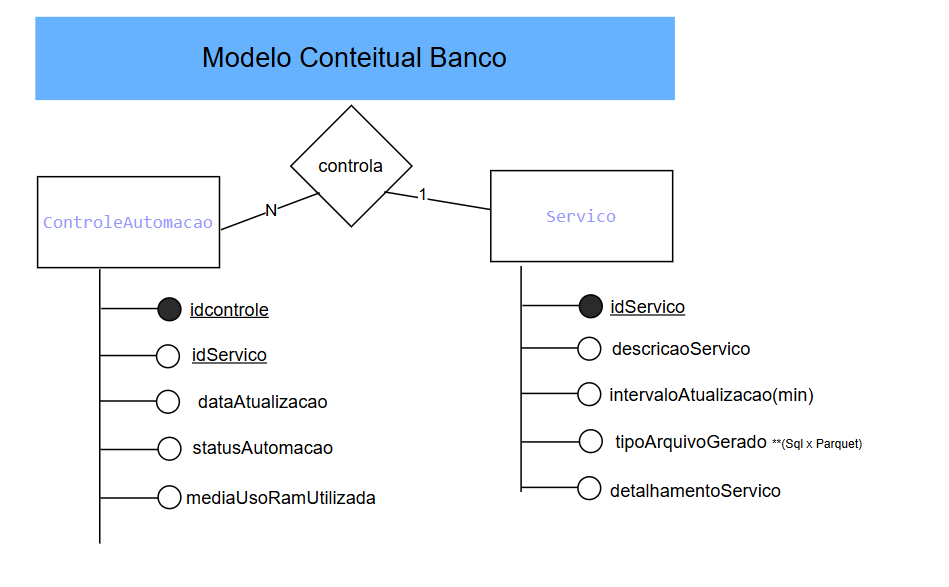
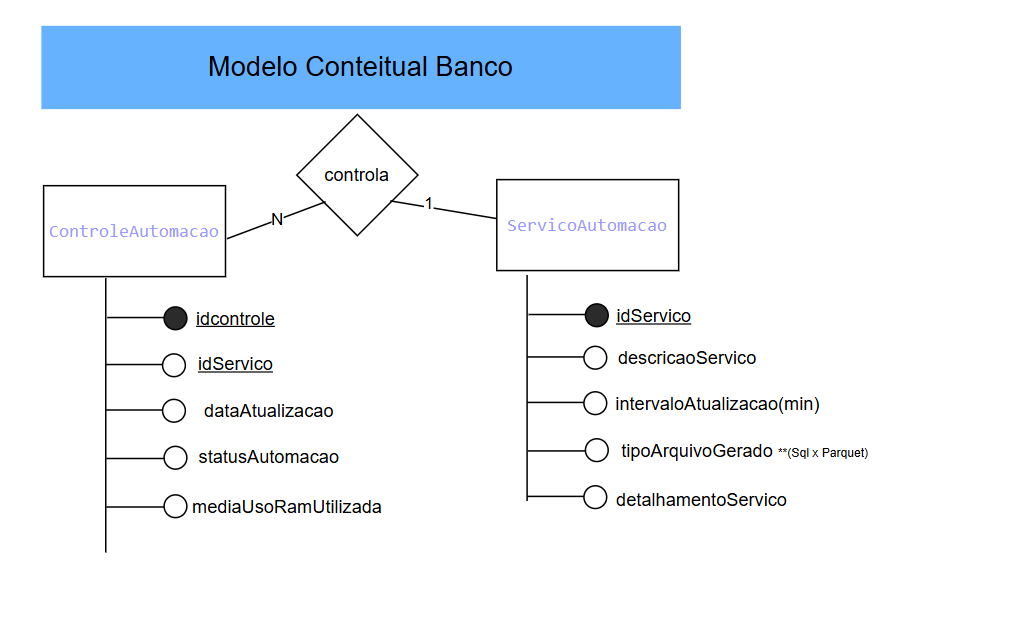
inserindo informacoes de importortacao de tas de defeitos

Changed region(s): [[0.0306, 0.184, 0.9168, 0.8586], [0.0306, 0.0, 0.7334, 0.184]]

diff --git a/src/models/ServicoAutomacao.py b/src/models/ServicoAutomacao.py
@@ -6,23 +6,34 @@ import pandas as pd
 
 class ServicoAutomacao():
     '''Classe responsabel por gerenciar o serviço de Automacao '''
-    def __init__(self, data_hora = '', rotina = ''):
+    def __init__(self, idServico ='', descricaoServico = '', periodoInicial = "",periodoFinal = ""):
 
-        self.data_hora = data_hora
+        # 1 - No processo de criacao verifica a dataHora Atual do Sistema Operacional
         self.data_hora_atual = self.obterHoraAtual()
-        self.rotina = rotina
+
+        self.idServico = idServico
+        self.descricaoServico = descricaoServico
+        self.periodoInicial = periodoInicial
+        self.periodoFinal = periodoFinal
 
 
 
 
     def obtendo_historico_automacao(self):
+        '''Metodo Publico para obter o historico dos serviços de automacao no periodo'''
 
         sql = """
                 select
-                    rotina,
-                    data_hora
+                    c."idServico",
+                    "dataAtualizacao",
+                    s."descricaoServico" 
                 from
-                    "PCP".pcp."ControleAutomacao"
+                    pcp."ControleAutomacao" c
+                inner join 
+                    pcp."ServicoAutomacao" s
+                on 
+                    s."idServico" = c."idServico"
+                order by "dataAtualizacao" desc
         """
 
 
@@ -32,16 +43,22 @@ class ServicoAutomacao():
 
         return consulta
 
-    def obtendo_historico_automacao_rotina(self):
+    def obtendo_historico_automacao_servico(self):
+        '''Metodo Publico que obtem o historico  de movimentacao serviço  especifico, em um determinado periodo'''
         sql = f"""
                 select
-                    rotina,
-                    data_hora
+                    c."idServico",
+                    "dataAtualizacao",
+                    s."descricaoServico" 
                 from
-                    "PCP".pcp."ControleAutomacao"
+                    pcp."ControleAutomacao" c
+                inner join 
+                    pcp."ServicoAutomacao" s
+                on 
+                    s."idServico" = c."idServico"
                 where 
-                    rotina = '{self.rotina}'
-                order by data_hora desc
+                    "descricaoServico" = '{self.descricaoServico}'
+                order by "dataAtualizacao" desc
         """
 
         conn = ConexaoPostgre.conexaoEngine()
@@ -52,8 +69,9 @@ class ServicoAutomacao():
 
 
     def obtendo_ultima_atualizacao_rotina(self):
+        """Metodo publico que obtem "A ULTIMA" movimentacao do serviço em especifico """
 
-        consulta = self.obtendo_historico_automacao_rotina()
+        consulta = self.obtendo_historico_automacao_servico()
 
         if consulta.empty:
             ultimo = '2000-01-01 00:00:00'
@@ -64,7 +82,11 @@ class ServicoAutomacao():
         return ultimo
 
 
-    def obtentendo_intervalo_atualizacao_rotina(self):
+    def obtentendo_intervalo_atualizacao_servico(self):
+        '''Metodo publico que obtem o Intervalo entre a data atual x ultima atualizacao de um Servuco especifico e
+        return: interval - minutos
+        '''
+
         # Converte as strings para objetos datetime
         data1_obj = datetime.strptime(self.obterHoraAtual(), "%Y-%m-%d %H:%M:%S")
 
@@ -83,27 +105,43 @@ class ServicoAutomacao():
 
 
     def inserindo_automacao(self, dataHora):
+        '''Metodo publico que inseri a automacao'''
 
         insert = """
-        insert into pcp."ControleAutomacao" ("data_hora", "rotina" ) values ( %s , %s )
+        insert into pcp."ControleAutomacao" 
+        (
+	        "idServico",
+	        "dataAtualizacao",
+	        "statusAutomacao",
+	        "mediaUsoRam"
+        ) values ( 
+            %s , 
+            %s ,
+            %s ,
+            %s  
+        )
         """
-
-
 
         with ConexaoPostgre.conexaoInsercao() as conn:
             with conn.cursor() as curr:
 
-                curr.execute(insert,(dataHora, self.rotina))
+                curr.execute(insert,(self.idServico, dataHora, 'Finalizado',''))
                 conn.commit()
 
     def obterHoraAtual(self):
-
+        """Metodo publico que obtem a data e hora da ultima atualizacao do sistema Operacional """
 
 
         fuso_horario = pytz.timezone('America/Sao_Paulo')  # Define o fuso horário do Brasil
         agora = datetime.now(fuso_horario)
         agora = agora.strftime('%Y-%m-%d %H:%M:%S')
         return agora
+
+
+    def exluir_historico_antes_quarentena(self):
+        '''Metodo publico que exluir o historico dos serviços da data anterior a 40 dias do dia atual,
+        para economia de espaço no banco de dados do projeto
+        '''
 
 
 

diff --git a/src/models/Tags_apontadas_defeito_Csw.py b/src/models/Tags_apontadas_defeito_Csw.py
@@ -88,9 +88,9 @@ class Tags_apontada_defeitos():
             return dados_tags_defeito
     def inserindo_informacoes_tag_postgre(self):
             '''Metodo publico que insere informacoes levantadas no postgre'''
-            servicoAutomacao = ServicoAutomacao.ServicoAutomacao('',
+            servicoAutomacao = ServicoAutomacao.ServicoAutomacao('1',
                                                                  f'Busca de tags dos ultimos {str(self.n_dias_historico)} dias')
-            self.ultima_atualizacao = servicoAutomacao.obtentendo_intervalo_atualizacao_rotina()
+            self.ultima_atualizacao = servicoAutomacao.obtentendo_intervalo_atualizacao_servico()
             print(f'ultima atualizacao {self.ultima_atualizacao}')
 
             if self.ultima_atualizacao > self.intervalo_automacao:

diff --git a/src/models/Componentes_Csw.py b/src/models/Componentes_Csw.py
@@ -58,7 +58,7 @@ class Componentes_CSW():
         """
         servicoAutomacao = ServicoAutomacao.ServicoAutomacao('','insercao dos compontentes do csw no postgre')
 
-        self.ultima_atualizacao = servicoAutomacao.obtentendo_intervalo_atualizacao_rotina()
+        self.ultima_atualizacao = servicoAutomacao.obtentendo_intervalo_atualizacao_servico()
         print(f'ultima atualizacao {self.ultima_atualizacao}')
         if self.ultima_atualizacao > self.intervalo_automacao:
 
